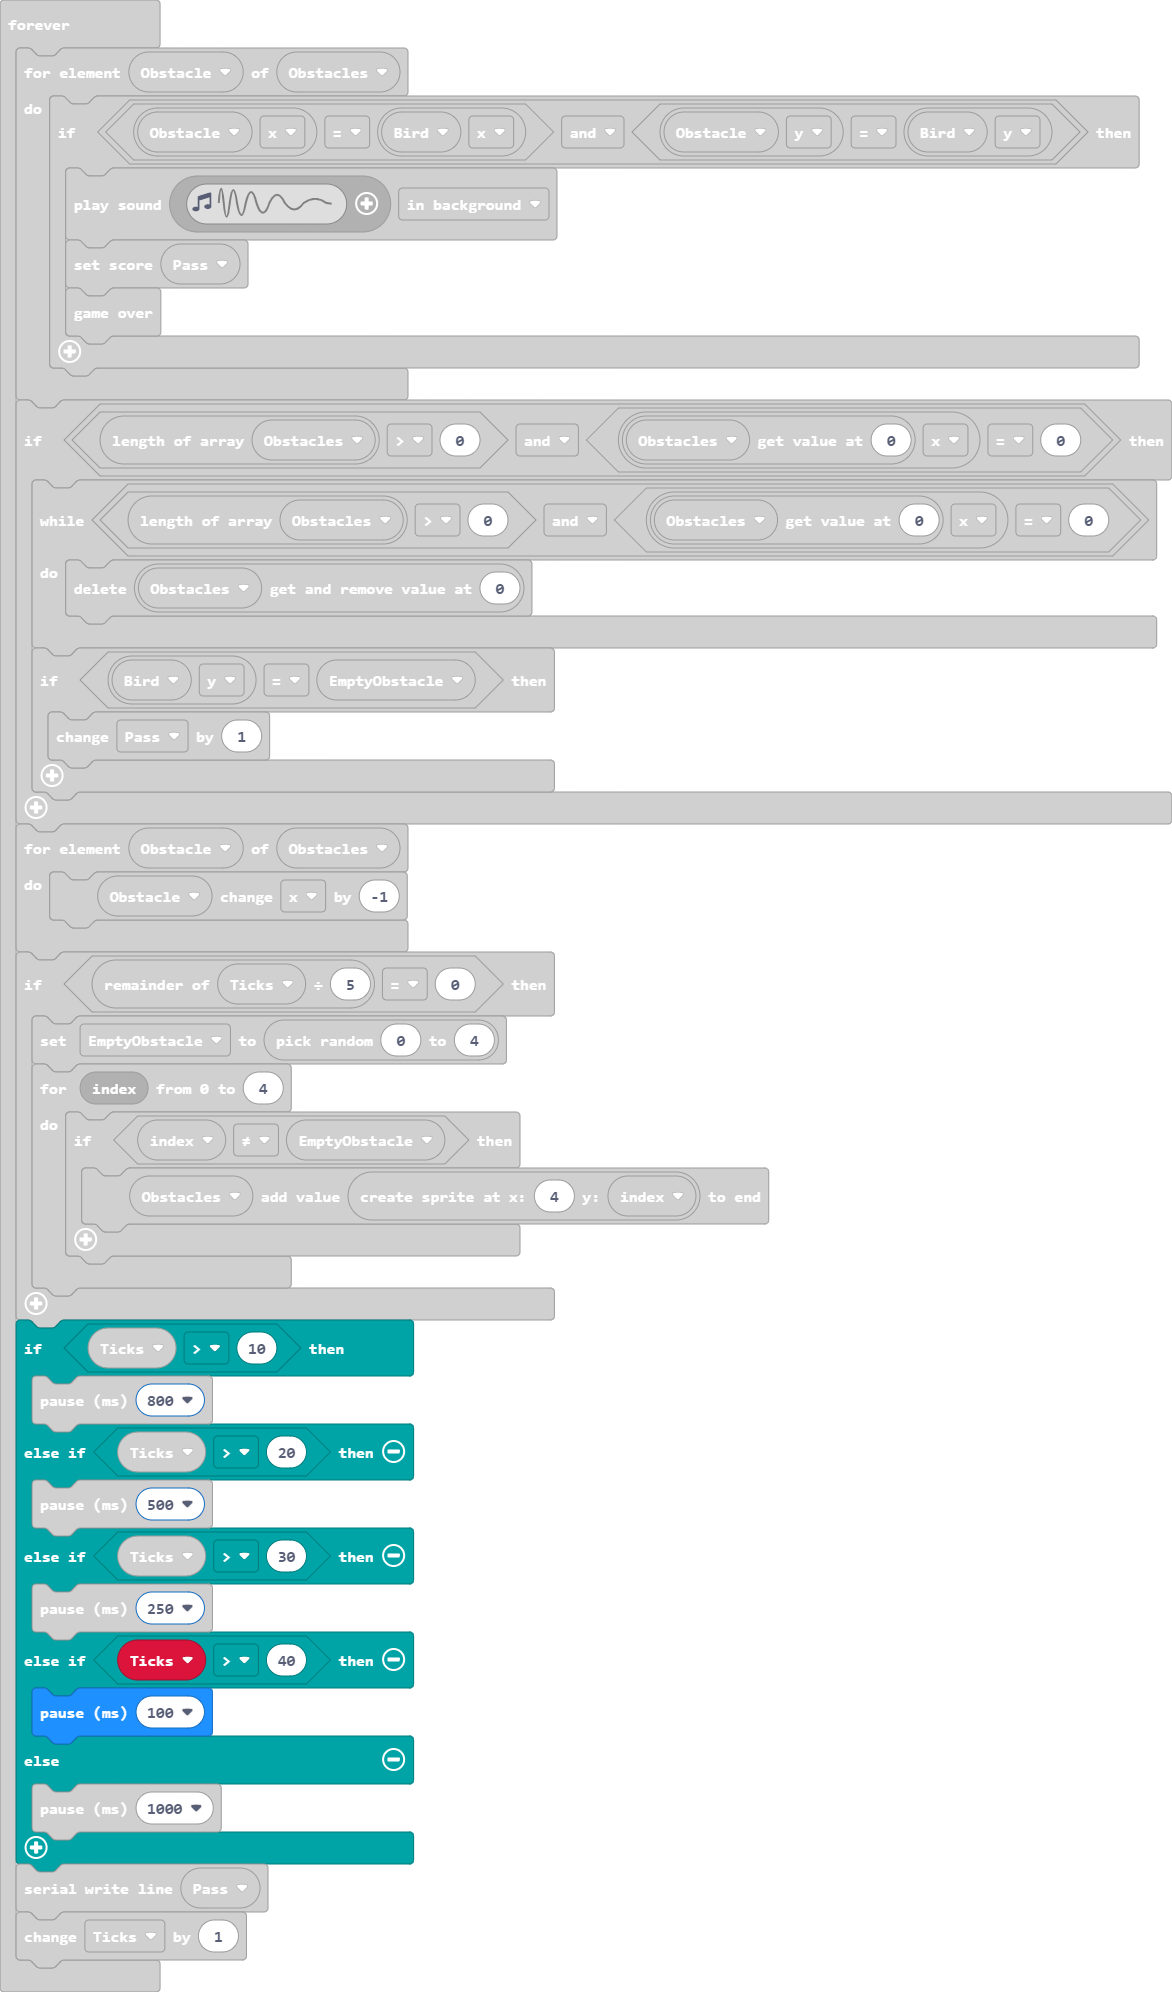
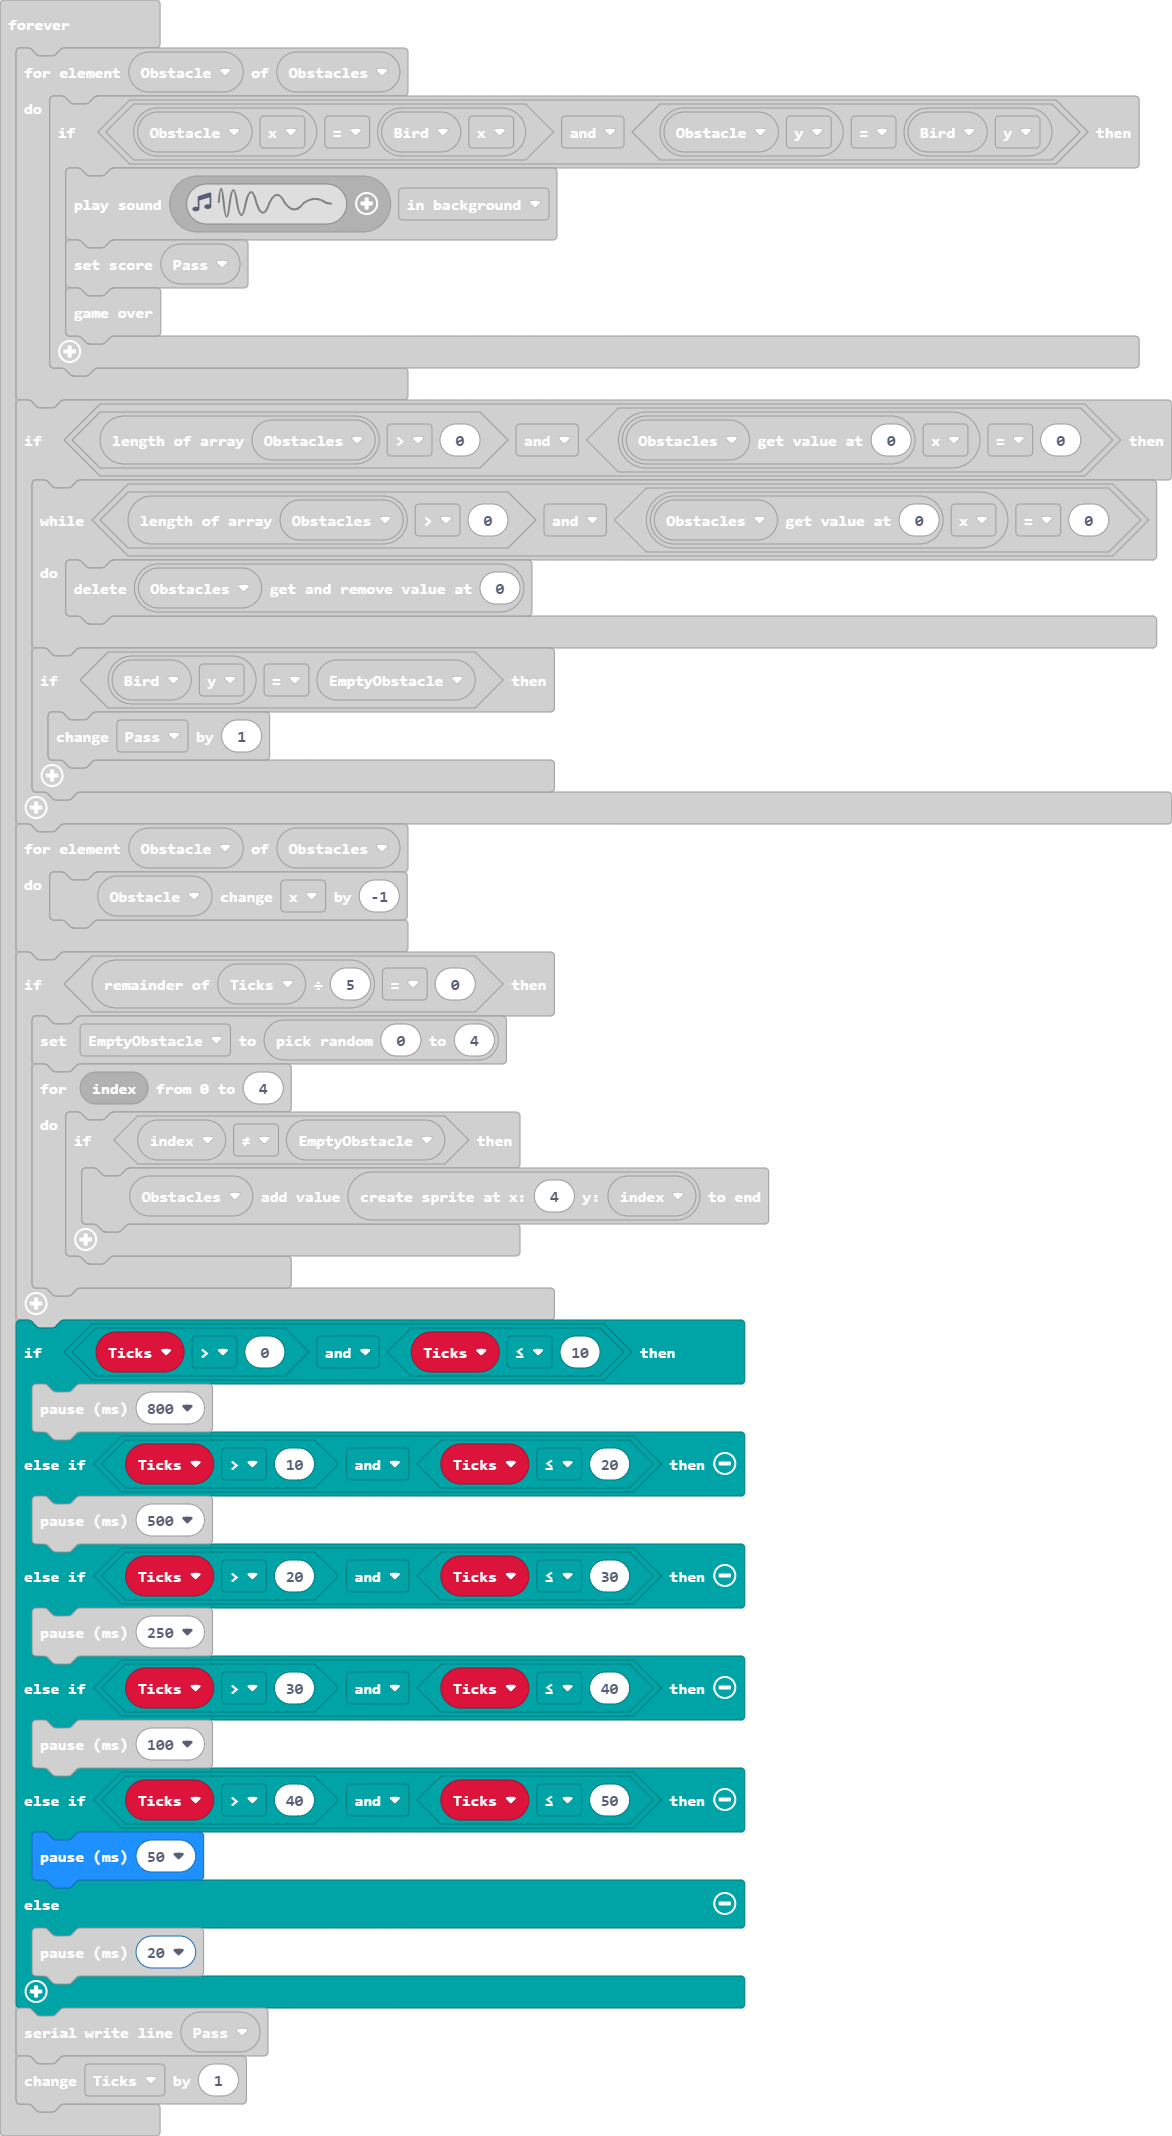
times

diff --git a/main.ts b/main.ts
@@ -41,16 +41,18 @@ basic.forever(function () {
             }
         }
     }
-    if (Ticks > 10) {
+    if (Ticks > 0 && Ticks <= 10) {
         basic.pause(800)
-    } else if (Ticks > 20) {
+    } else if (Ticks > 10 && Ticks <= 20) {
         basic.pause(500)
-    } else if (Ticks > 30) {
+    } else if (Ticks > 20 && Ticks <= 30) {
         basic.pause(250)
-    } else if (Ticks > 40) {
+    } else if (Ticks > 30 && Ticks <= 40) {
         basic.pause(100)
+    } else if (Ticks > 40 && Ticks <= 50) {
+        basic.pause(50)
     } else {
-        basic.pause(1000)
+        basic.pause(20)
     }
     serial.writeLine("" + (Pass))
     Ticks += 1
